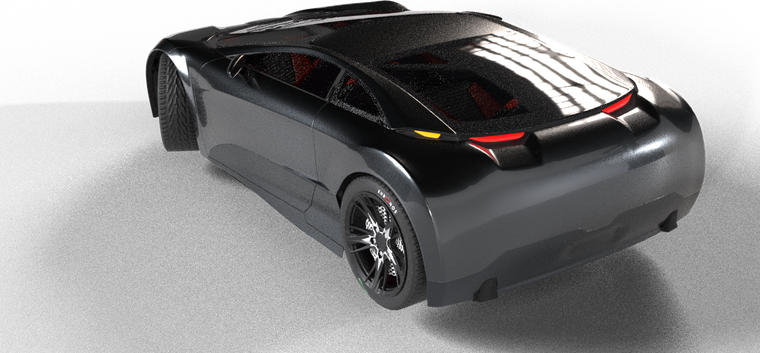
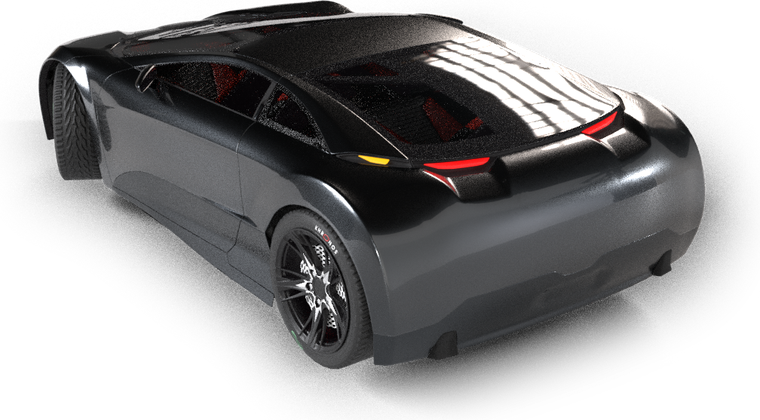
v1.1: soft car shadow, car fits inside gauge, needle clear of numbers, English clock size
Claude-Session: https://claude.ai/code/session_015xrSH4UAYtdUyaKS9kpf7A

diff --git a/app/src/main/java/com/stradaos/launcher/Speedo.java b/app/src/main/java/com/stradaos/launcher/Speedo.java
@@ -96,7 +96,7 @@ public class Speedo extends View {
             c.drawLine(cx + (float) Math.cos(a) * r1, cy + (float) Math.sin(a) * r1, cx + (float) Math.cos(a) * r2, cy + (float) Math.sin(a) * r2, p);
             if (major && v > 0) {
                 p.setStyle(Paint.Style.FILL);
-                p.setTextSize(r * 0.105f);
+                p.setTextSize(r * 0.092f);
                 float rl = r * 0.66f;
                 c.drawText(String.valueOf(v), cx + (float) Math.cos(a) * rl, cy + (float) Math.sin(a) * rl + r * 0.04f, p);
             }
@@ -124,9 +124,12 @@ public class Speedo extends View {
 
         // السيارة
         if (car != null) {
-            float ch = carW * car.getHeight() / (float) car.getWidth();
-            float bottom = cy + r * (road ? 0.92f : 0.98f);
-            oval.set(cx - carW / 2, bottom - ch, cx + carW / 2, bottom);
+            // تحت رقم السرعة وداخل حدود العدّاد (لا تُقصّ من الأسفل)
+            float bottom = Math.min(cy + r * (road ? 0.92f : 0.95f), getHeight() - 2);
+            float top = cy + r * 0.34f;
+            float cw = carW, ch = cw * car.getHeight() / (float) car.getWidth();
+            if (ch > bottom - top) { ch = Math.max(bottom - top, r * 0.2f); cw = ch * car.getWidth() / (float) car.getHeight(); }
+            oval.set(cx - cw / 2, bottom - ch, cx + cw / 2, bottom);
             p.setStyle(Paint.Style.FILL);
             p.setFilterBitmap(true);
             c.drawBitmap(car, null, oval, p);
@@ -134,7 +137,7 @@ public class Speedo extends View {
 
         // المؤشر
         double a = Math.toRadians(START + SWEEP * shown / max);
-        float n1 = r * 0.55f, n2 = r * 0.93f;
+        float n1 = r * 0.75f, n2 = r * 0.95f;
         float x1 = cx + (float) Math.cos(a) * n1, y1 = cy + (float) Math.sin(a) * n1;
         float x2 = cx + (float) Math.cos(a) * n2, y2 = cy + (float) Math.sin(a) * n2;
         glow.setColor(accent);

diff --git a/app/src/main/java/com/stradaos/launcher/Dash.java b/app/src/main/java/com/stradaos/launcher/Dash.java
@@ -577,7 +577,8 @@ public class Dash implements Obd.Listener {
 
     void buildClock(float x, float y, float w, float hh) {
         FrameLayout c = card(x, y, w, hh);
-        clockTv = rtext("", 46, 0xFFFFFFFF, true);
+        clockTv = rtext("", ar() ? 46 : 38, 0xFFFFFFFF, true);
+        clockTv.setSingleLine(true);
         in(c, clockTv, 10, 14, w - 20, 64);
         dateTv = rtext("", 14, GOLD, true);
         dateTv.setSingleLine(false);
